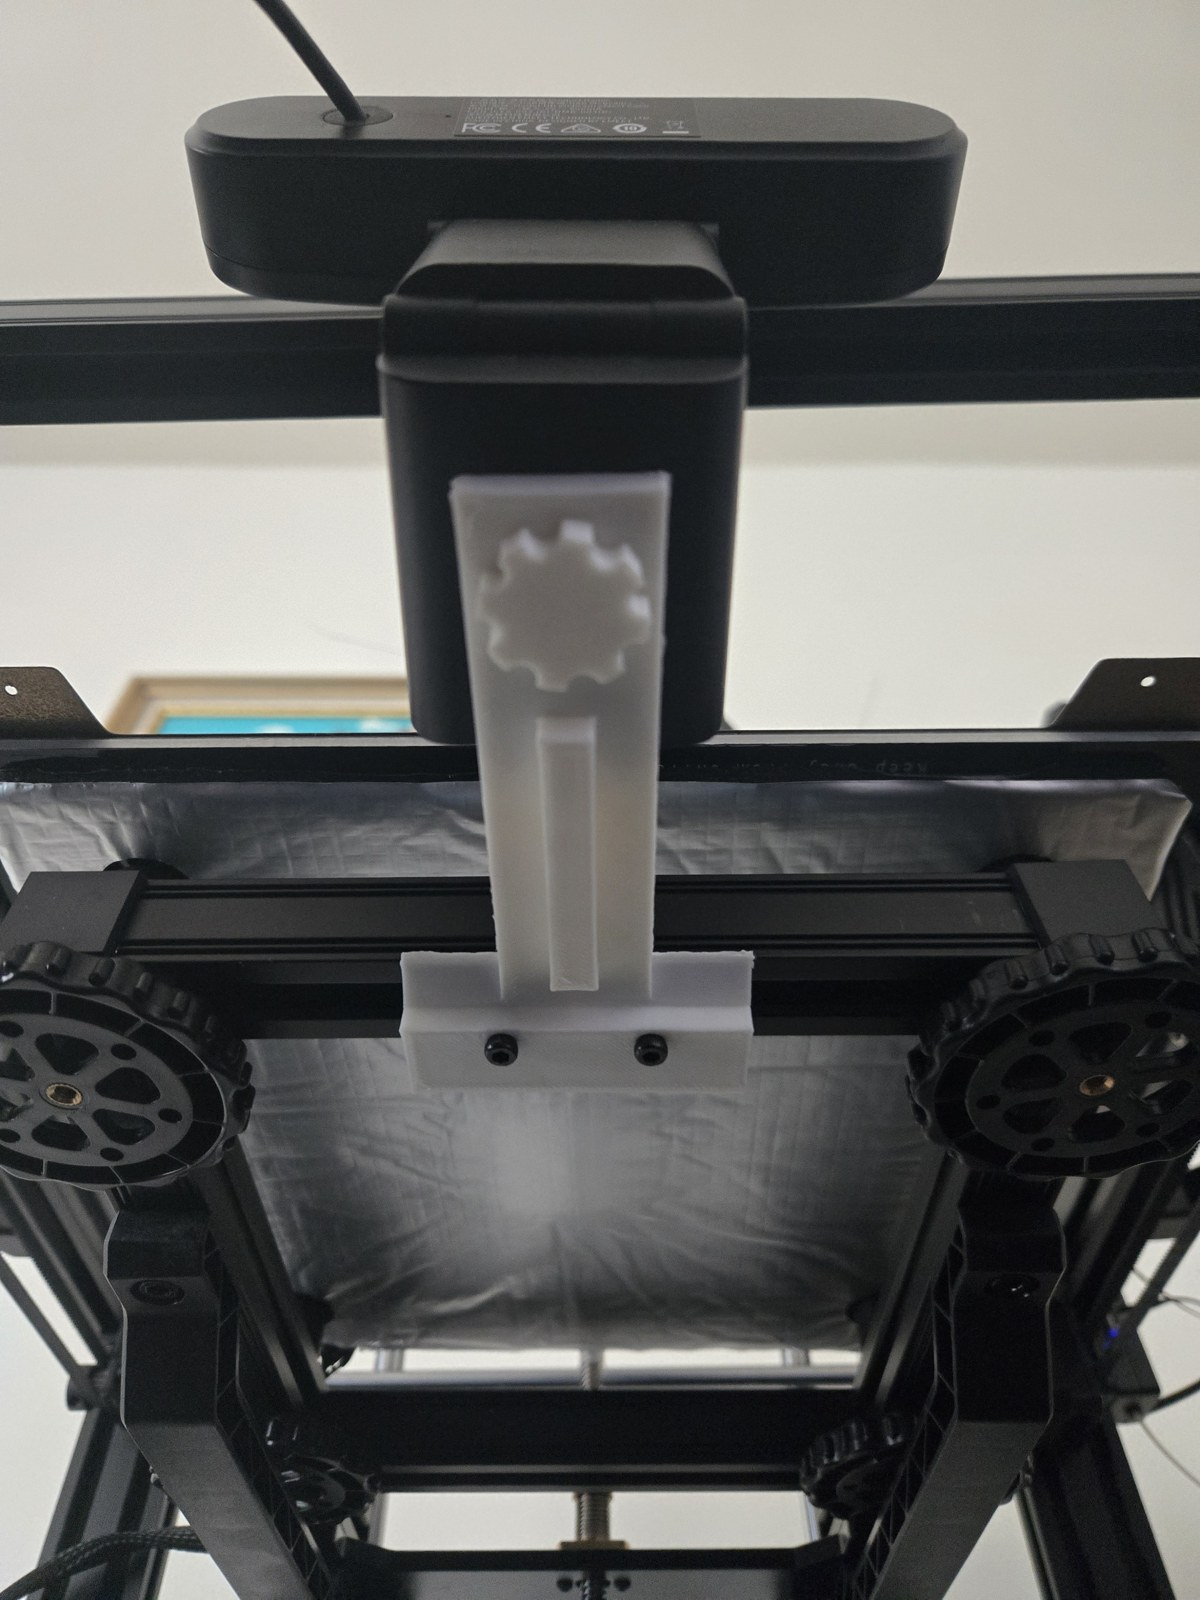
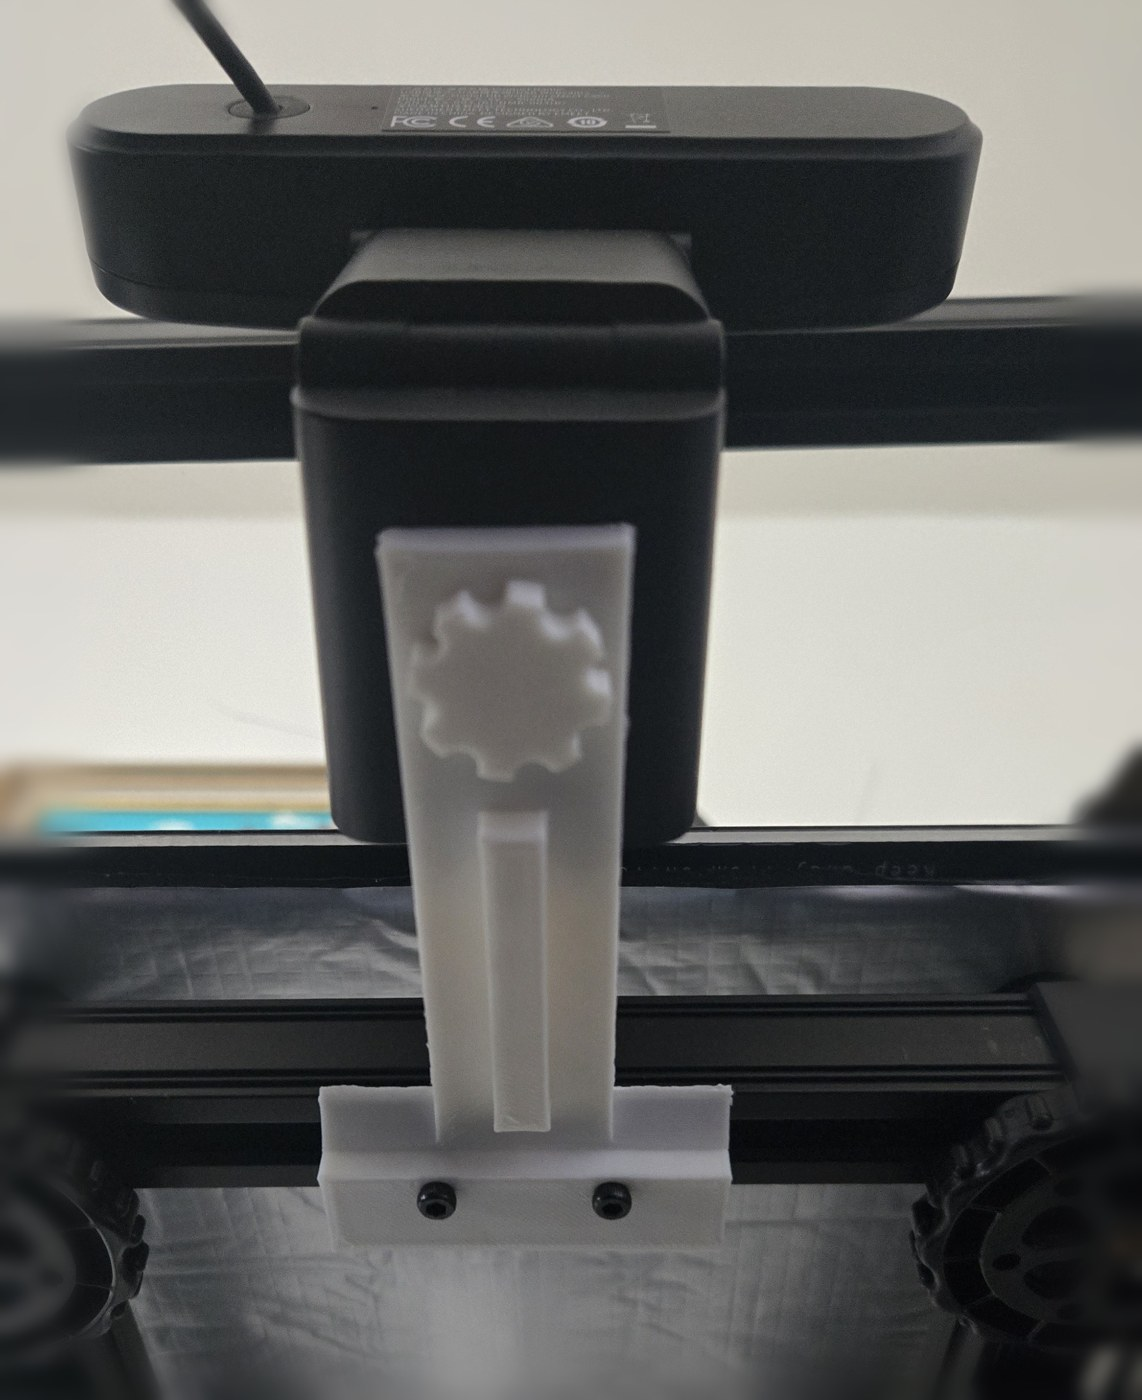
Crop and blur photo backgrounds; correct image captions
Photos re-processed: cropped to the subject and the residual background
blurred, so no room context is published. EXIF/GPS already stripped.

diff --git a/README.md b/README.md
@@ -7,9 +7,14 @@ length, tilt, or bolt size and re-run.
 
 ![installed](images/installed-detail.jpg)
 
+*T crossbar bolted to a 2020 rail with two M3 T-nuts; arm reaching out to the
+camera; the printed thumbscrew is the knurled disc.*
+
 The T crossbar bolts along a 2020 rail with two M3 T-nuts; the arm reaches out
 perpendicular; the camera clamps to the end with the printed thumbscrew. The
 raised rib along the arm is what keeps a 105 mm cantilever from drooping.
+
+*The host machine — a Creality Ender 5 S1.*
 
 ![overview](images/installed-overview.jpg)
 
